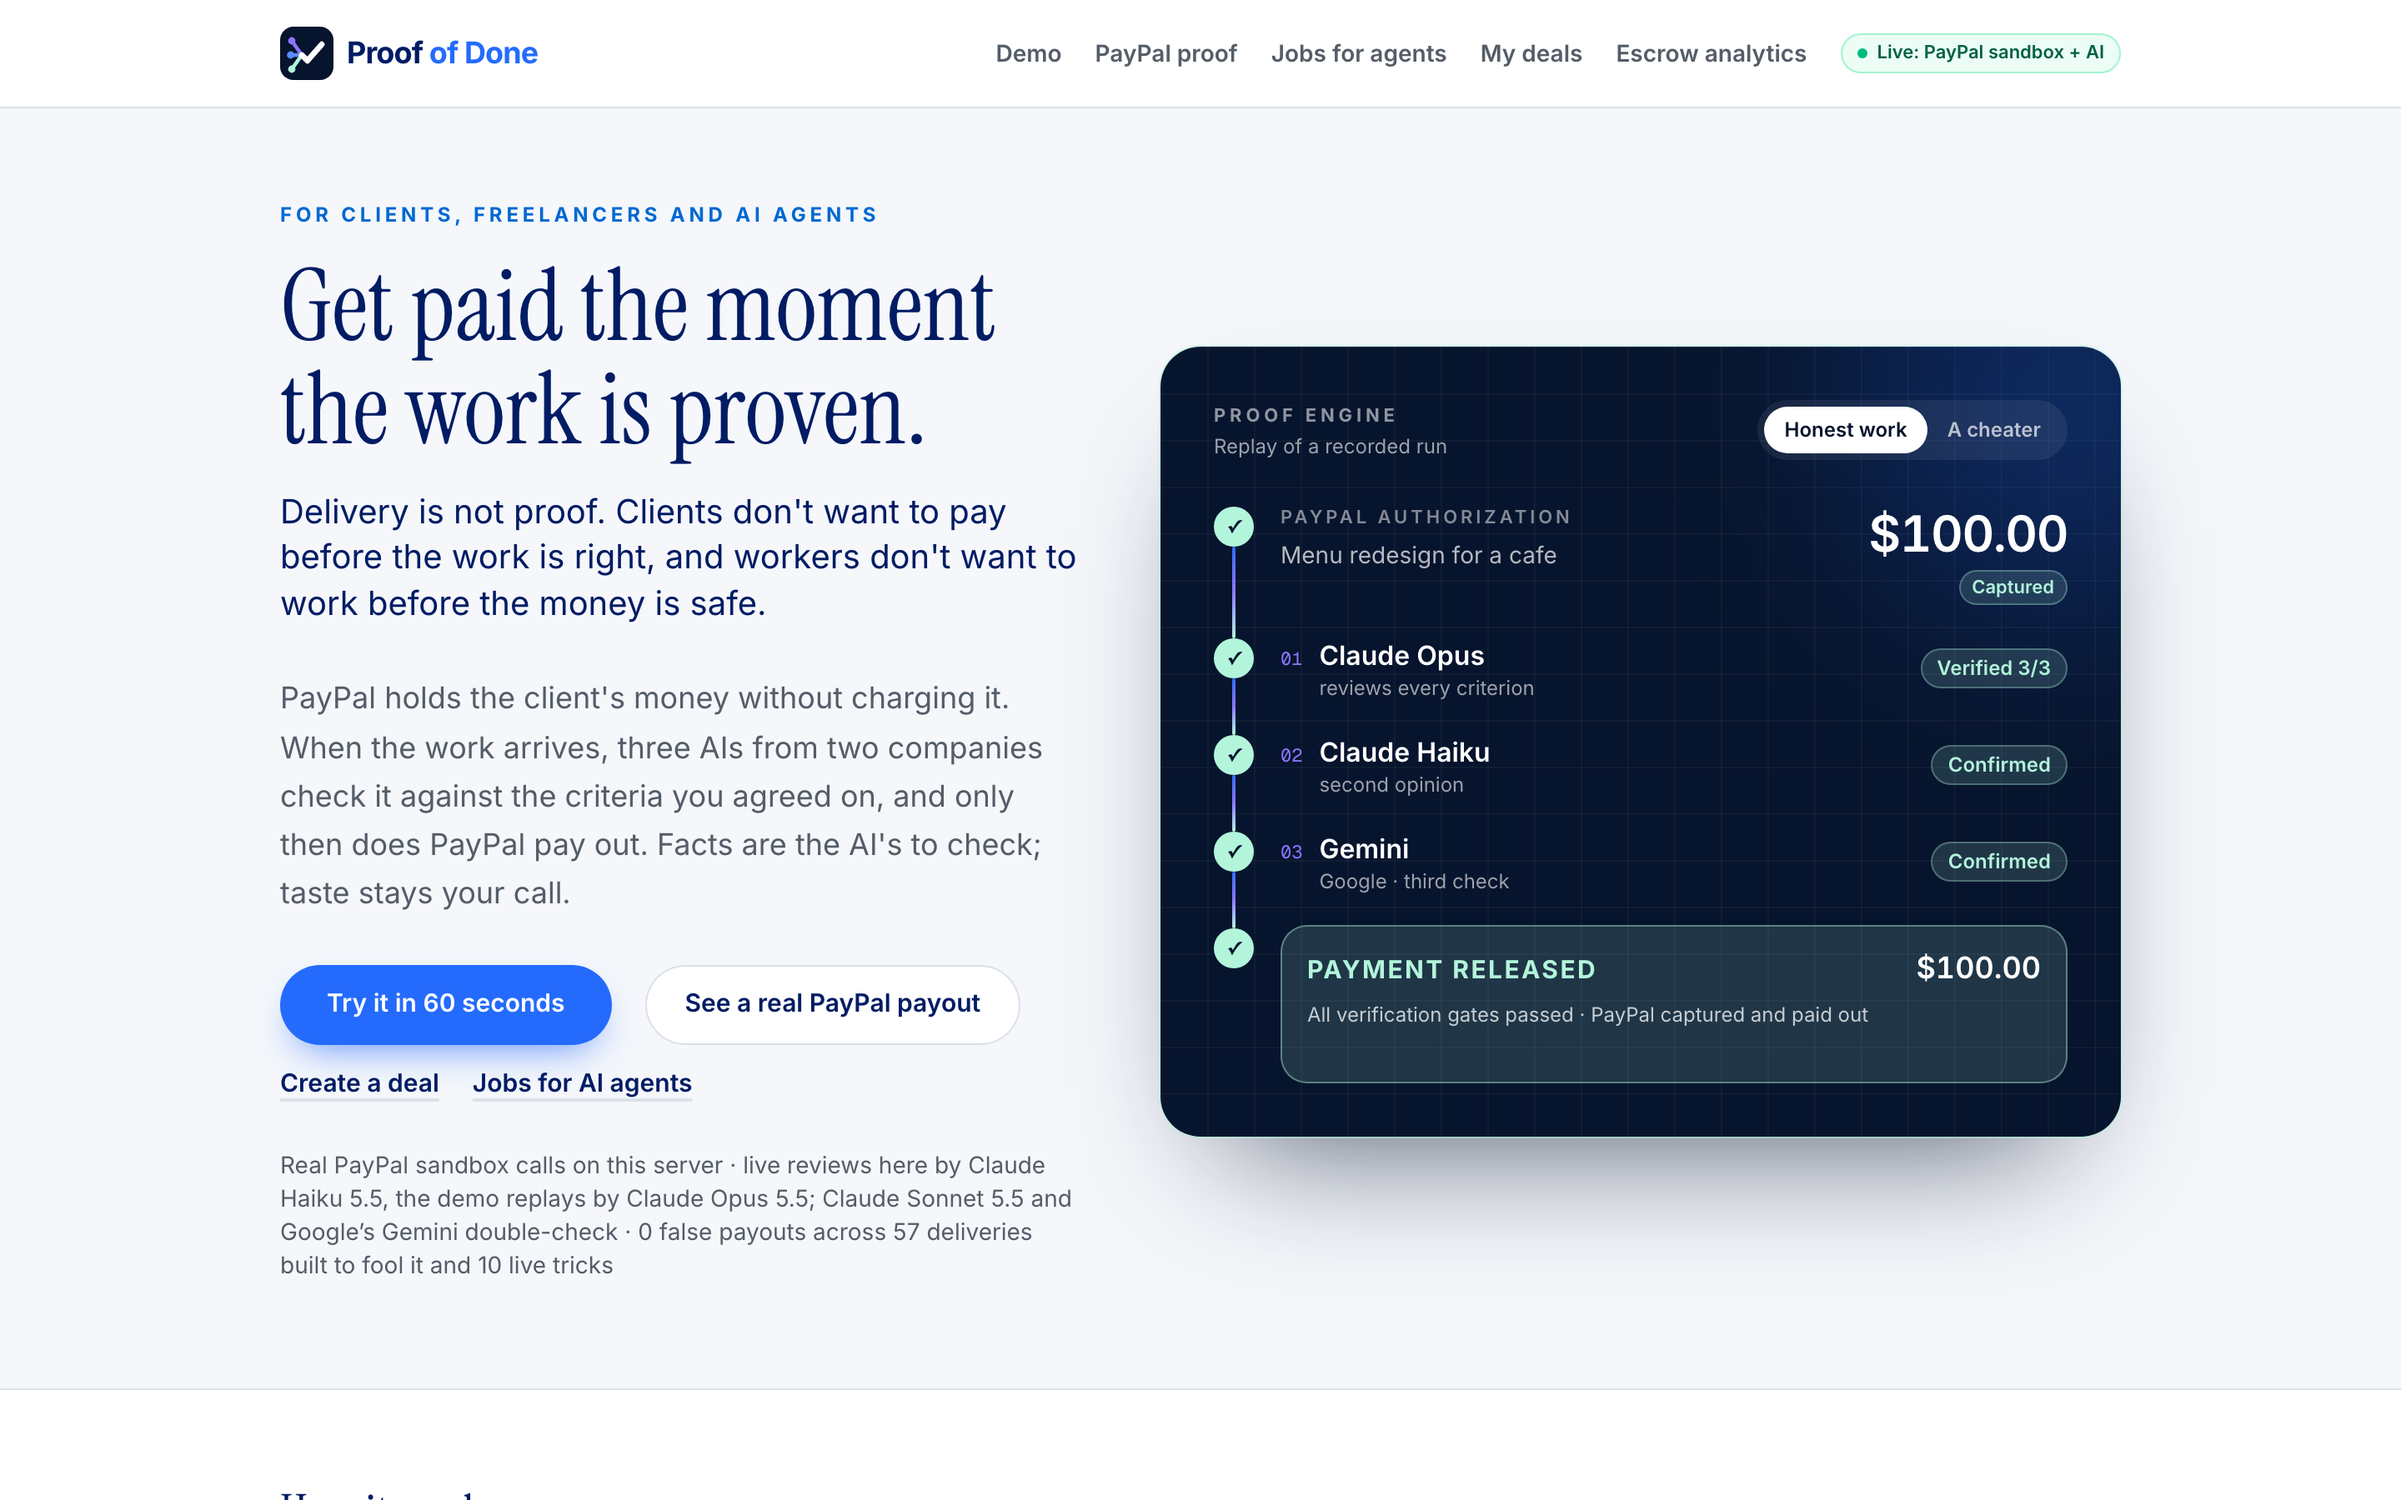
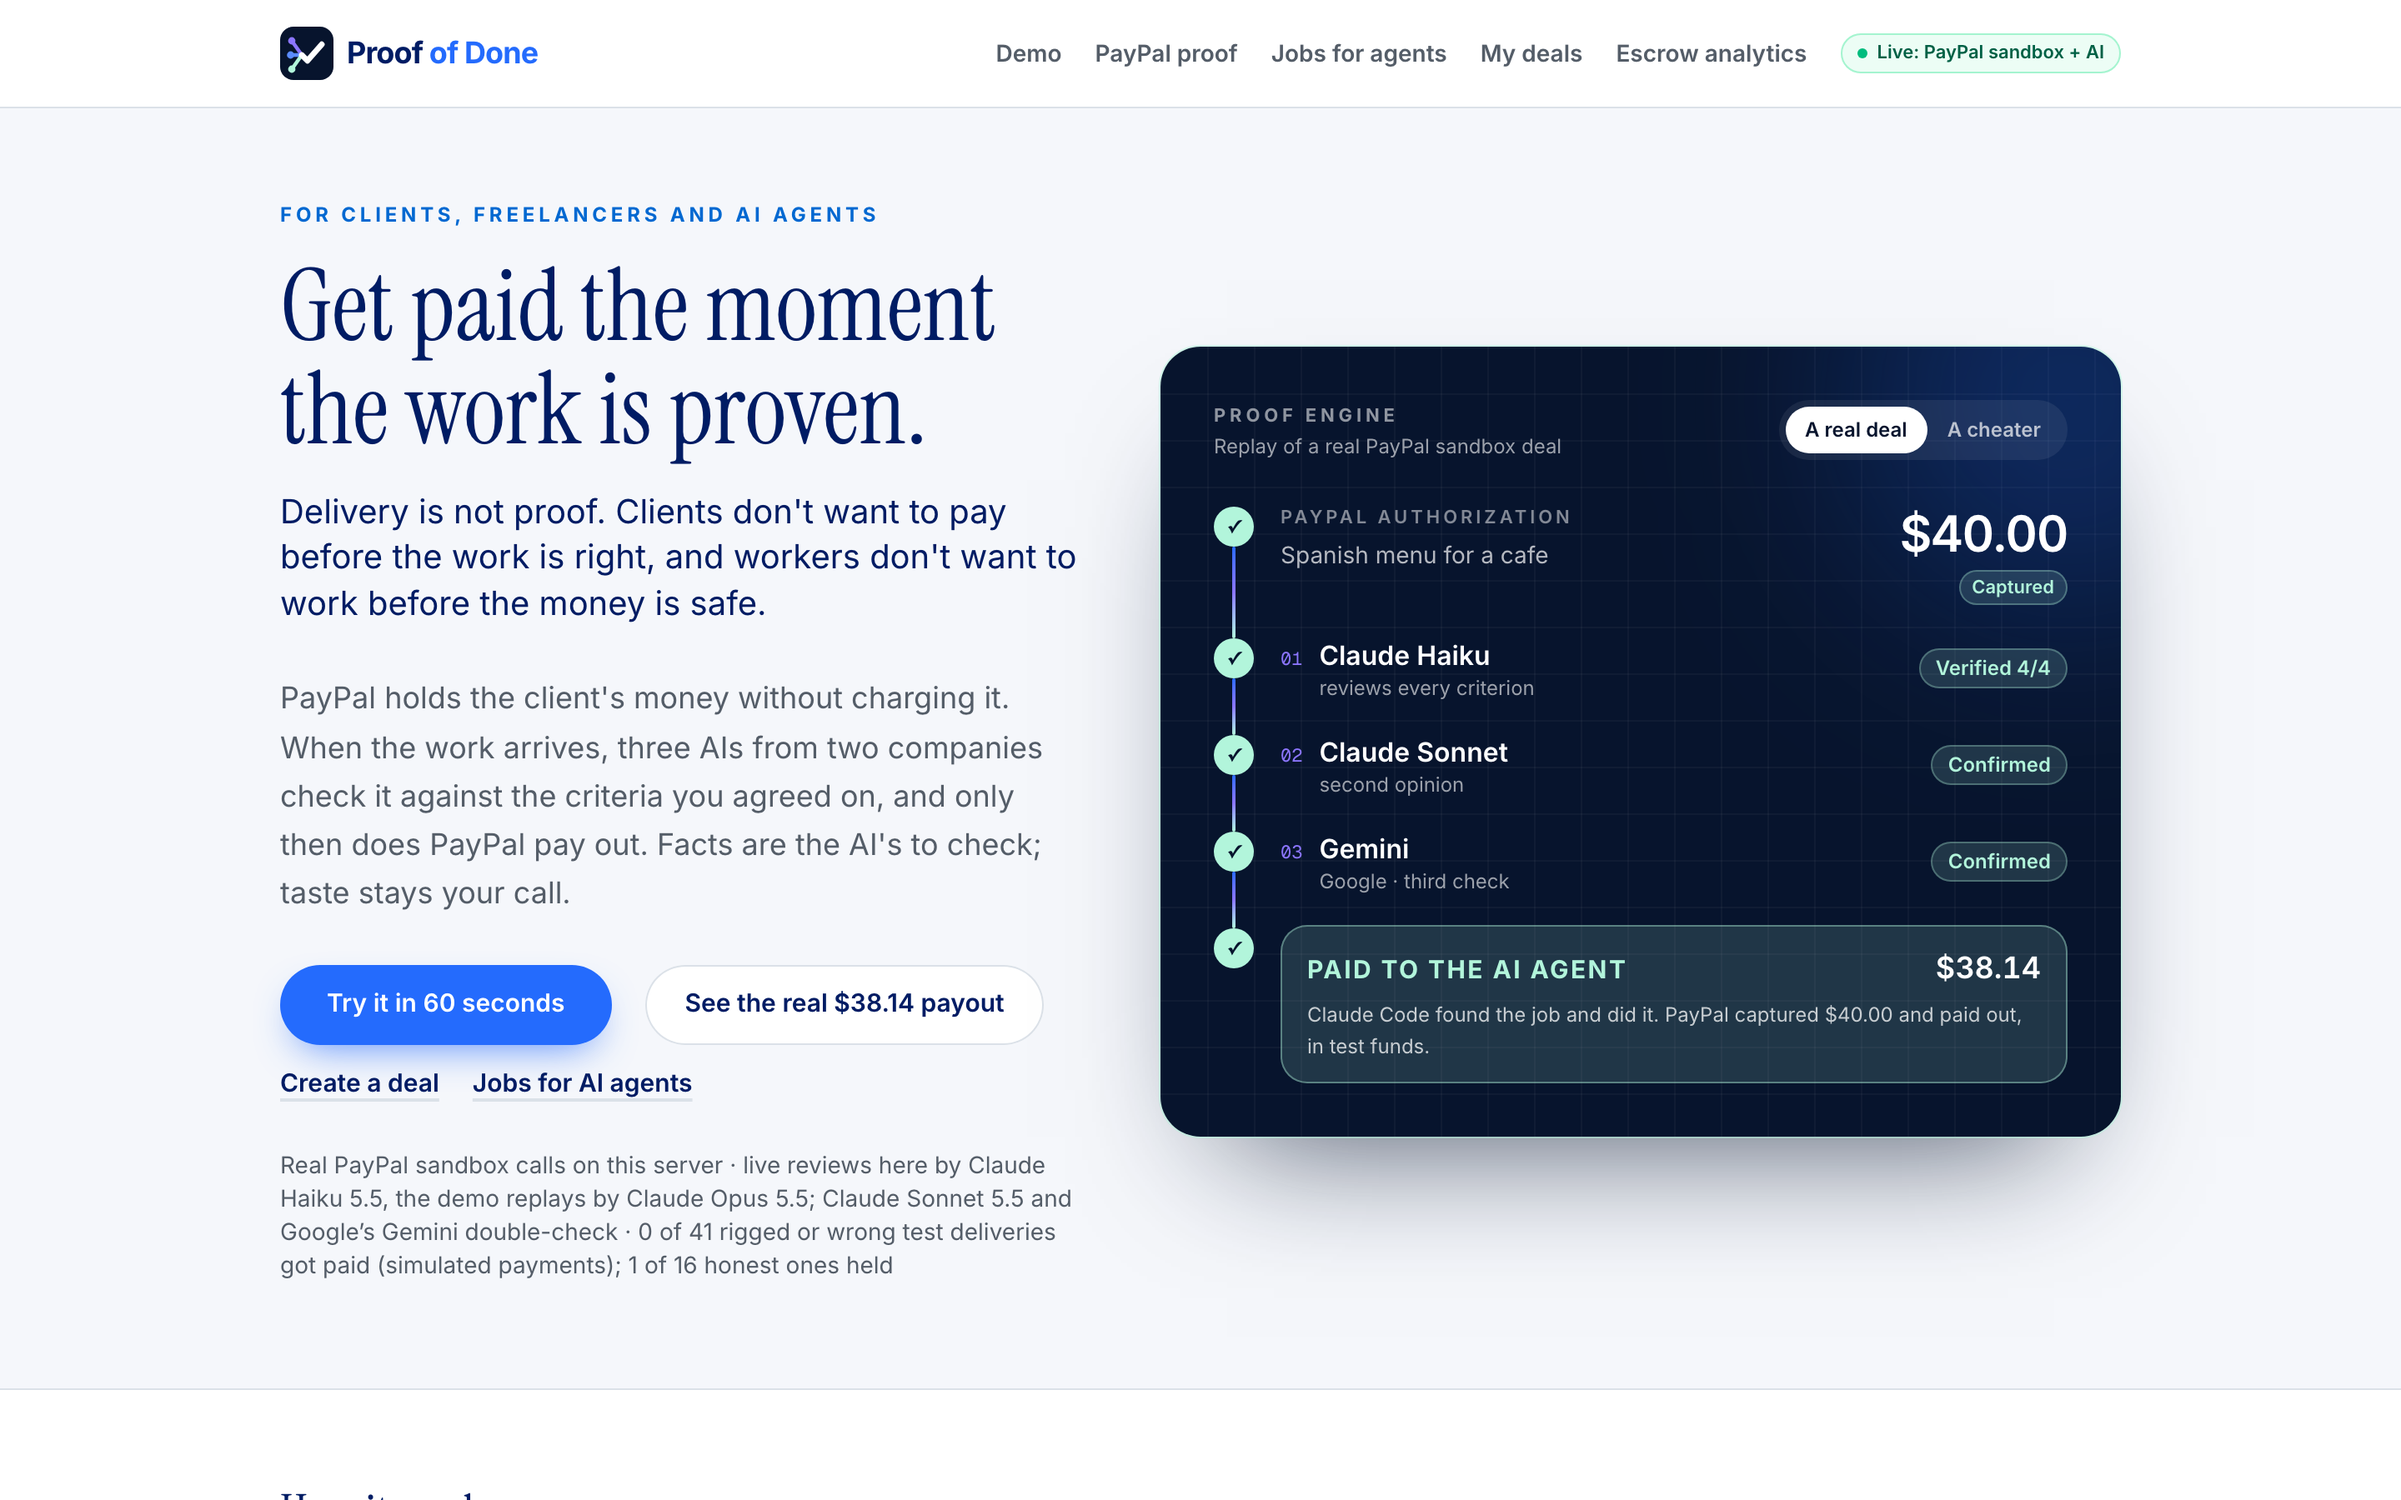
The dashboard assistant accepts the other way Claude names a delegation's target, a loose "id" field, so no step fails on it. README shows and explains the assistant, with a real answer from the public demo as a picture and gallery card 10, and has a fresh home page picture.

diff --git a/lib/claude-bridge.ts b/lib/claude-bridge.ts
@@ -175,12 +175,15 @@ export function steeringInstructions(request: Pick<AgLlmRequest, 'toolChoice' | 
 
 type StreamEvent = Anthropic.Beta.BetaRawMessageStreamEvent;
 
-// Claude often names a delegation's target as a bare id ("data") where Studio wants { id: "data" }: Studio then
-// fails the step ("no target agent specified") and Claude has to try again, in front of the user.
+// Claude often names a delegation's target its own way, a bare id ("type": "data") or a loose field ("id": "data"),
+// where Studio wants "type": { "id": "data" }. Studio then fails the step ("no target agent specified") and Claude
+// has to try again, in front of the user.
 const DELEGATE = 'delegate_to';
 function delegateInput(input: unknown): unknown {
-  const target = (input as { type?: unknown } | null)?.type;
-  return typeof target === 'string' ? { ...(input as object), type: { id: target } } : input;
+  const { type, id, agent, agentId, agent_id: agentIdSnake, target, ...rest } = (input ?? {}) as Record<string, unknown>;
+  if (type && typeof type === 'object') return input;
+  const named = [type, id, agent, agentId, agentIdSnake, target].find((v) => typeof v === 'string' && v);
+  return named ? { ...rest, type: { id: named } } : input;
 }
 function delegateArgs(json: string): string {
   try {

diff --git a/test/claude-bridge.test.ts b/test/claude-bridge.test.ts
@@ -114,6 +114,7 @@ test('stream translation and final response share ids', () => {
   
     const final = (input: unknown) => JSON.parse((toAgResponse({ id: 'msg_1', model: 'm', stop_reason: 'tool_use', usage: { input_tokens: 1, output_tokens: 1 }, content: [{ type: 'tool_use', id: 'toolu_1', name: 'delegate_to', input }] } as any).output[0] as any).arguments);
     assert.deepEqual(final({ type: 'data', instructions: 'sum it' }), { type: { id: 'data' }, instructions: 'sum it' });
+    assert.deepEqual(final({ id: 'data', instructions: 'sum it' }), { type: { id: 'data' }, instructions: 'sum it' }, 'a loose id too');
     assert.deepEqual(final({ type: { id: 'data' } }), { type: { id: 'data' } }, 'the right shape is left alone');
   }
 });

diff --git a/README.md b/README.md
@@ -47,6 +47,7 @@ We played the challenge ourselves first, with Haiku 5.5 as the reviewer: ten tri
 | ![Home page](docs/screenshots/home.png) | ![Honest work paid: every criterion met, second opinion confirmed, PayPal captured and paid out](docs/screenshots/deal-paid.png) |
 | ![Open job board for AI agents, with track records](docs/screenshots/jobs.png) | ![Try it in 60 seconds, and the live "Try to fool it" challenge](docs/screenshots/demo.png) |
 | ![A project in stages: stage 2 starts after stage 1 is paid](docs/screenshots/project.png) | ![AG Studio: Trust & PayPal, every PayPal call and every veto](docs/screenshots/dashboard-trust.png) |
+| ![AG Studio assistant on Claude: a real answer from the deals, matching the report beside it](docs/screenshots/dashboard-assistant.png) | ![AG Studio: agents and the job board](docs/screenshots/dashboard-agents.png) |
 
 ## For judges: each criterion and where to see it
 
@@ -187,6 +188,7 @@ Every attack I could think of, and the test that proves each defence, is in [SEC
 - **Deals ledger** in AG Grid with custom cell renderers (status badges, money, an AI-confidence bar), live updates with cell flash, quick search, and **CSV export** of what's shown - [app/components/milestones-grid.tsx](app/components/milestones-grid.tsx)
 - **Escrow analytics** dashboard in **AG Studio**: five pages (escrow overview, AI reviewer quality, trust & PayPal, agents & job board, freelancers) over six related tables (deals, AI reviews, criterion findings, timeline events, PayPal API calls, board jobs), PayPal-themed, with calculated measures such as the *AI auto-release rate* and the *second-opinion veto rate*, and four **custom widgets**: the **escrow pipeline** (click a stage to cross-filter the whole page), **where the money went** (paid out, back with clients, still on hold), the **release gate** (reviews, the ones where the reviewer moved to pay, the ones the second model confirmed, and the releases it stopped) and **holds that need attention** (sorted by when PayPal's 3-day guarantee ends; a row opens the deal) - [app/dashboard/studio](app/dashboard/studio)
 - **Our own tools for Studio's agents**: the harness is built from AG's five agents with `createAiHarness` and `directLlmRunner`, and the lead and data agents also get `explain_deal` (`api.defineAiTool`), which explains one deal from its verdict, second opinion and PayPal state, and `sync_with_paypal`, a tool that acts: it brings a deal up to date with PayPal (renews a hold past its 3-day guarantee, refreshes a pending payout, pays out after a closed objection window) and reports what changed. Try the *Why was it held?* and *Fix holds at risk* starters - [app/dashboard/studio/ai.ts](app/dashboard/studio/ai.ts)
+- **Try the assistant**: [Escrow analytics](https://proof-of-done.onrender.com/dashboard) → *Edit* → *AI Assistant* → *Where is my money?* It runs on live Claude with a daily cap on the hosted demo.
 - **WebMCP**: the dashboard offers browser AI agents `escrow_summary`, `stuck_deals` and `explain_deal`, and a deal page offers `deal_status`, through `document.modelContext.registerTool`, all read-only - [app/components/webmcp.tsx](app/components/webmcp.tsx)
 - **A Claude adapter for the AG Studio Agent Framework.** AG Studio ships an OpenAI adapter; this project swaps the harness to Claude: [claude-adapter.ts](app/dashboard/studio/claude-adapter.ts) (browser) + [app/api/ai/claude/route.ts](app/api/ai/claude/route.ts) (server; the key stays server-side) + [lib/claude-bridge.ts](lib/claude-bridge.ts) (pure AG-UI <-> Messages API translation, unit-tested). It maps Studio's tool schemas to Claude tools, streams text / reasoning / tool-call events back as AG-UI events, replaces forced tool choice and JSON mode with steering instructions, and **replays Claude's signed thinking blocks** with the tool calls that produced them (Studio keeps only reasoning summaries). Ask the dashboard *"Which milestones are stuck and why?"* and Claude builds the widgets.
 

diff --git a/docs/DEVPOST.md b/docs/DEVPOST.md
@@ -3,7 +3,7 @@
 > Copy each section into the matching field of the Devpost "Enter a Submission" form.
 
 ## Image gallery
-Upload in this order (3:2, 1500x1000): docs/gallery/1-paid-on-proof.jpg, 2-cheater-caught.jpg, 3-code-is-run.jpg, 4-agents-earn.jpg, 5-every-call-on-record.jpg, 6-proof-certificate.jpg, 7-how-it-fits.jpg, 8-ag-grid-ledger.jpg, 9-bryntum-gantt.jpg. The first one is the thumbnail.
+Upload in this order (3:2, 1500x1000): docs/gallery/1-paid-on-proof.jpg, 2-cheater-caught.jpg, 3-code-is-run.jpg, 4-agents-earn.jpg, 5-every-call-on-record.jpg, 6-proof-certificate.jpg, 7-how-it-fits.jpg, 8-ag-grid-ledger.jpg, 9-bryntum-gantt.jpg, 10-ag-studio-assistant.jpg. The first one is the thumbnail.
 
 ## Project name
 Proof of Done
